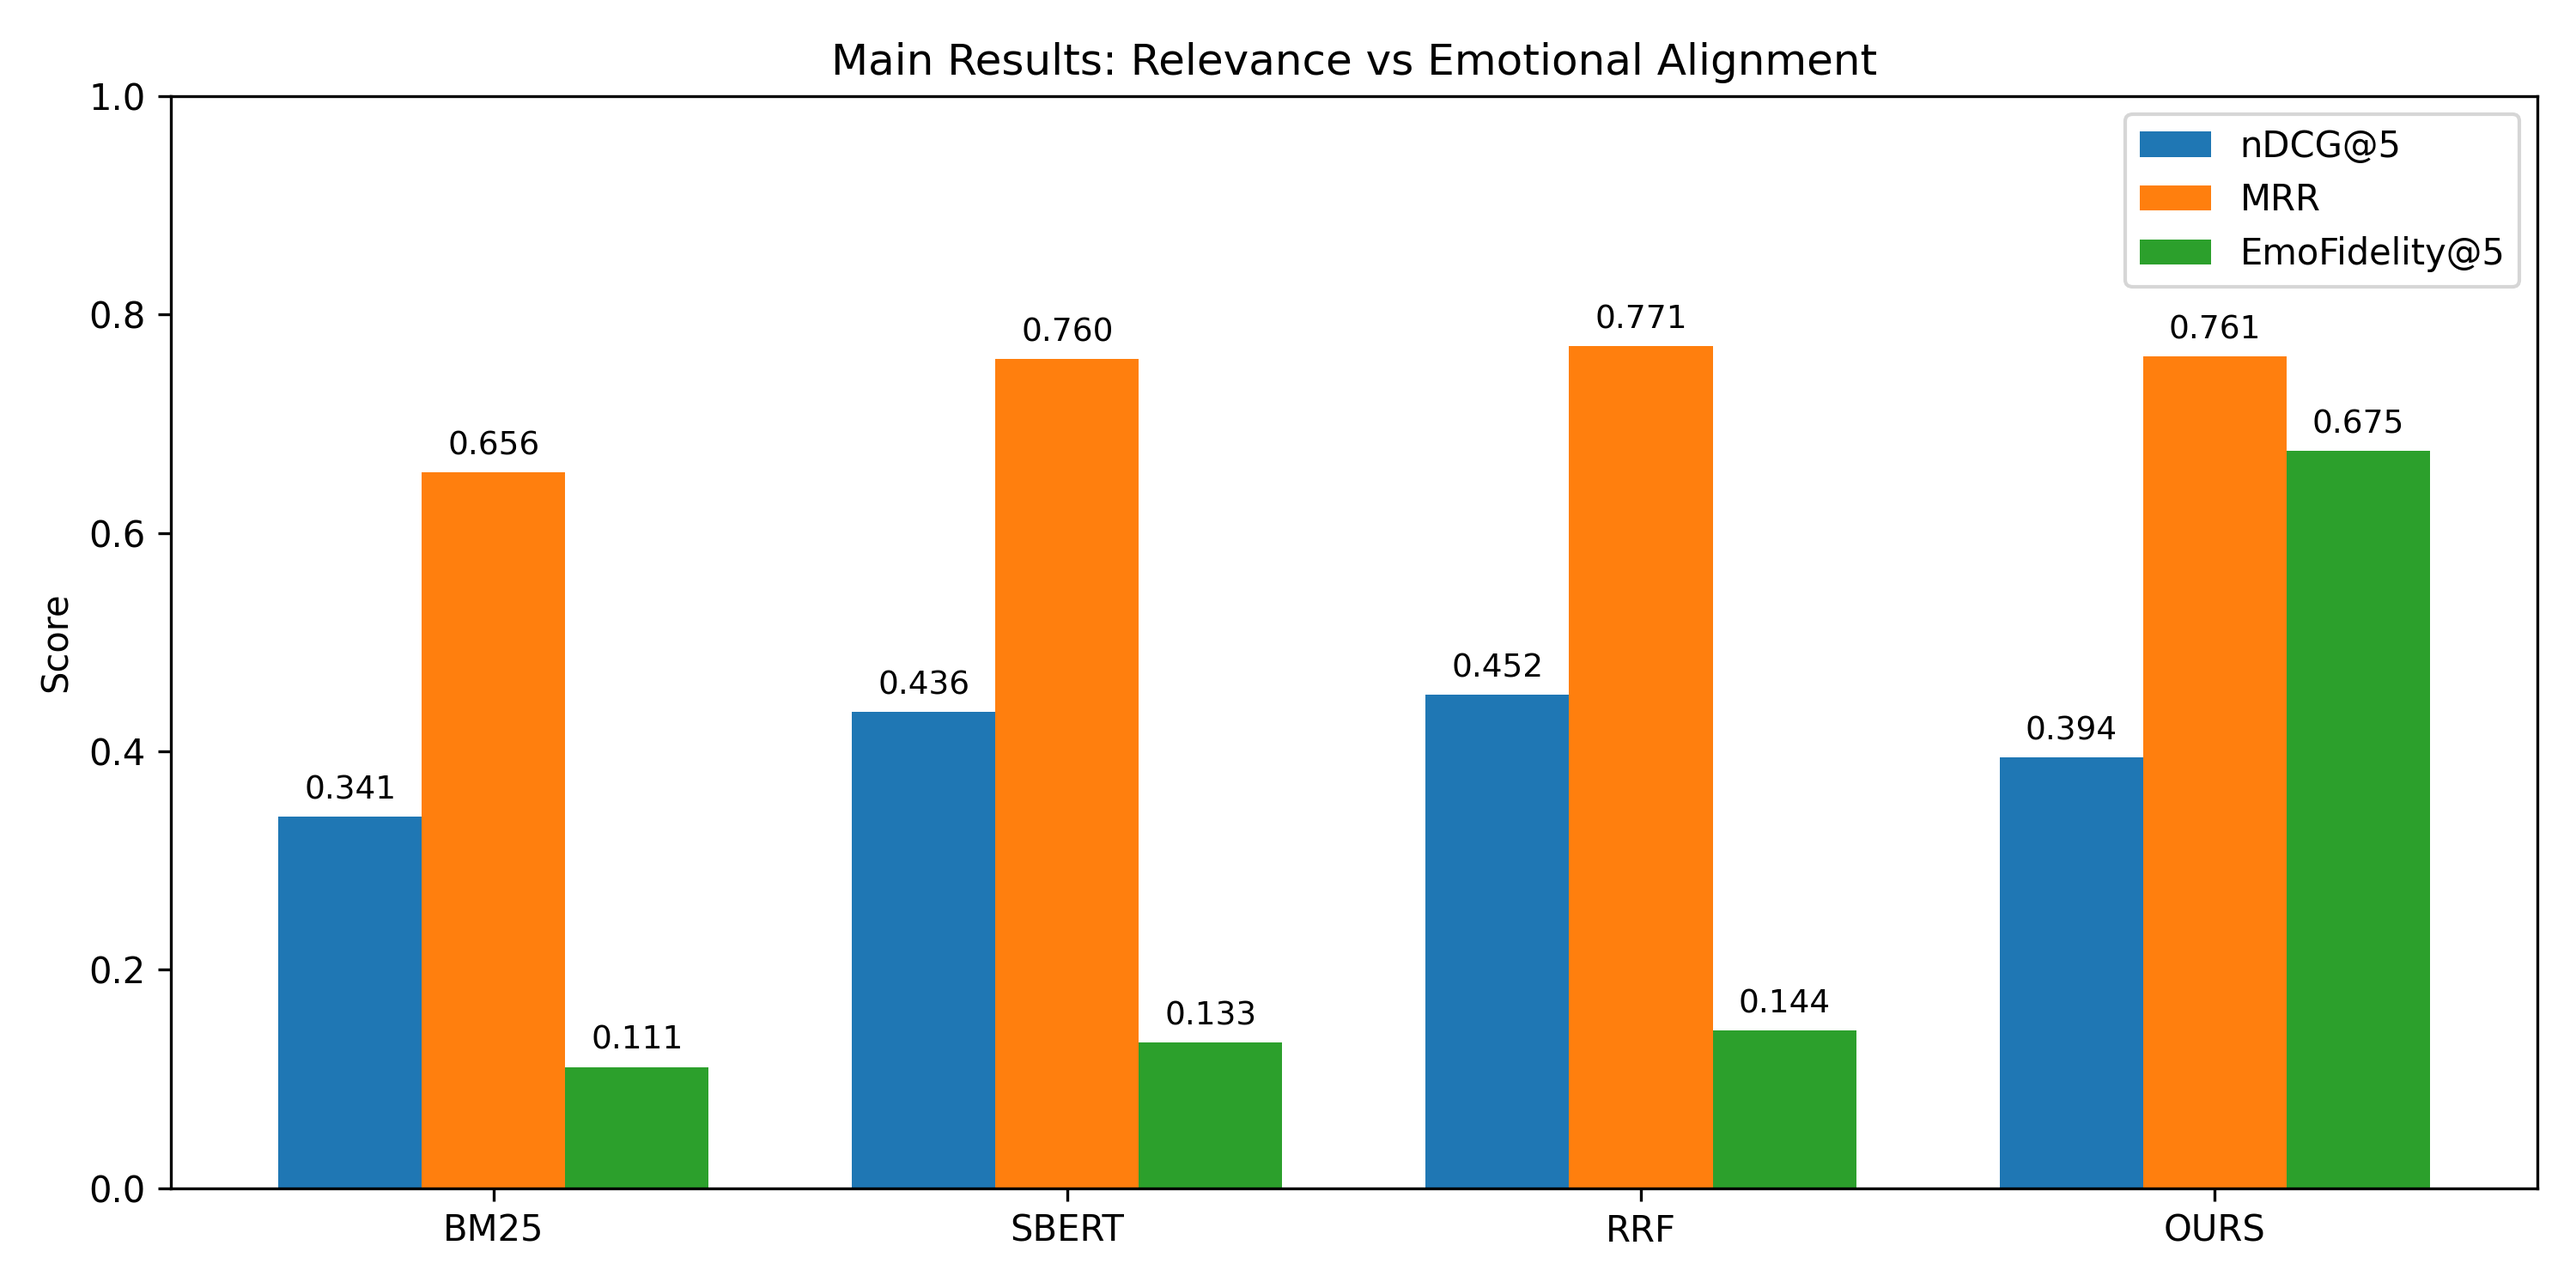
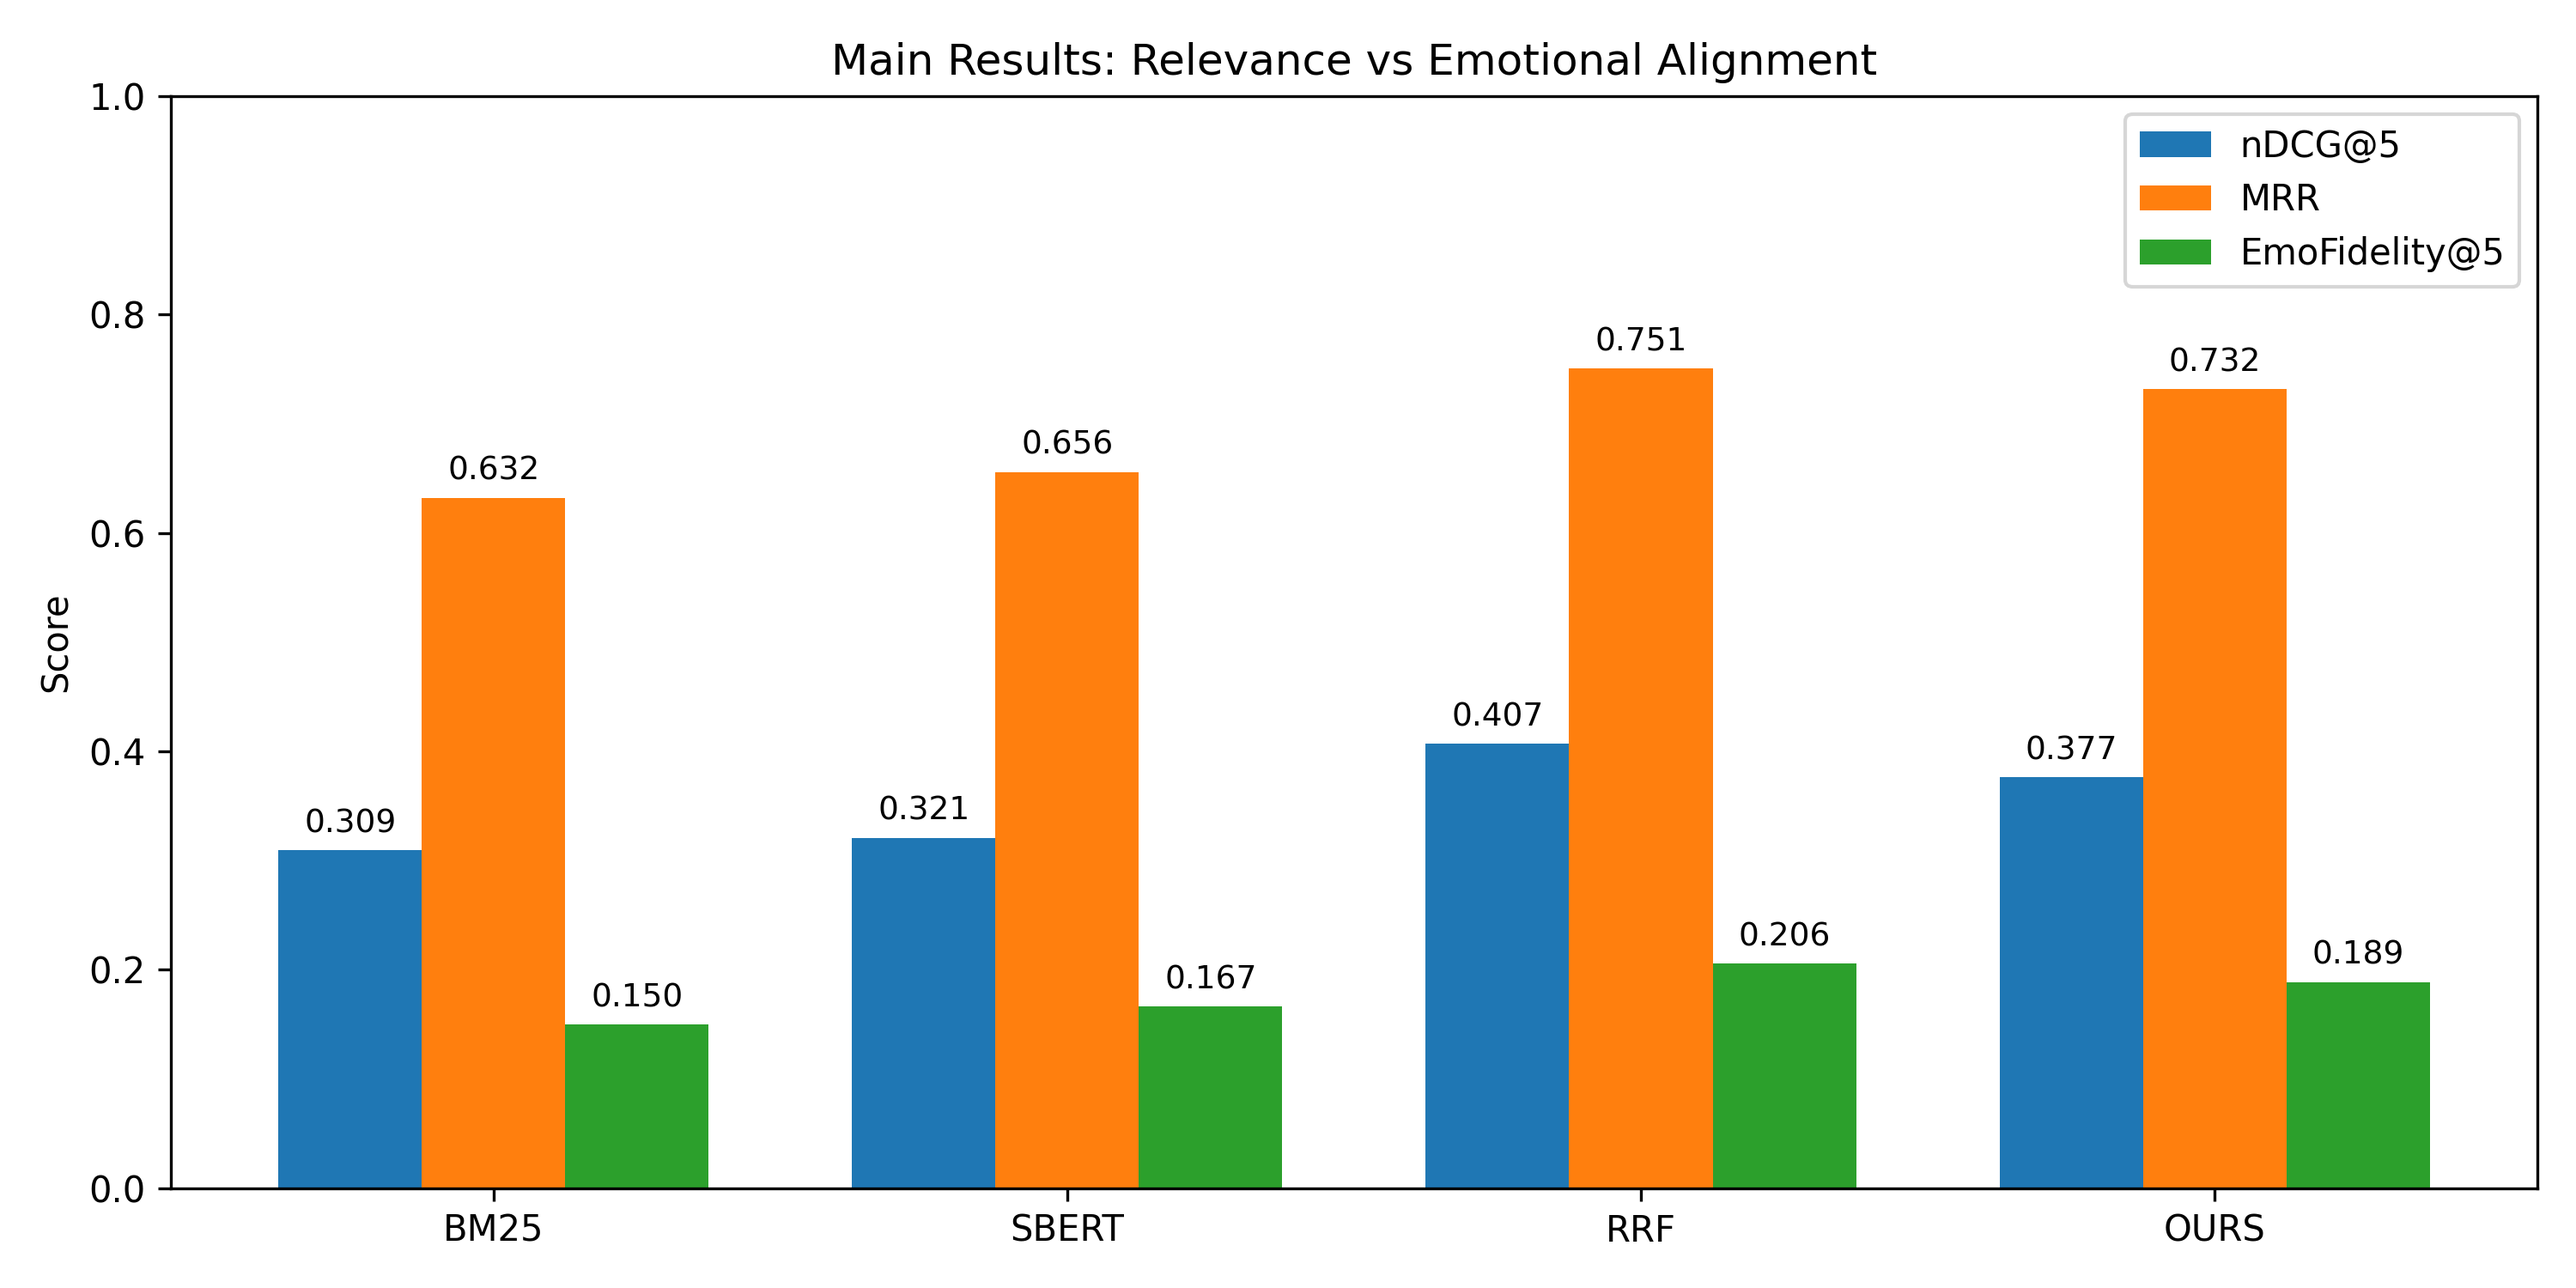
Remove PDF output from main results figure script with the aware summary selection changes
The script no longer saves or prints the path for the PDF version of the main results bar chart, focusing solely on PNG output. The PNG file has also been updated.

diff --git a/evaluation/make_main_results_figure.py b/evaluation/make_main_results_figure.py
@@ -8,7 +8,6 @@ EVAL_SUMMARY_PATH = os.path.join(RESULTS_DIR, "evaluation_summary.csv")
 EMO_SUMMARY_PATH = os.path.join(RESULTS_DIR, "emotional_fidelity_summary.csv")
 
 OUT_PNG = os.path.join(RESULTS_DIR, "main_results_bar_chart.png")
-OUT_PDF = os.path.join(RESULTS_DIR, "main_results_bar_chart.pdf")
 
 
 def normalize_method_name(m: str) -> str:
@@ -108,12 +107,10 @@ def main():
 
     plt.tight_layout()
     plt.savefig(OUT_PNG, dpi=300)
-    plt.savefig(OUT_PDF)
     plt.close()
 
     print("✅ Saved combined grouped bar chart:")
     print(f" - {OUT_PNG}")
-    print(f" - {OUT_PDF}")
     print("\nData used:")
     print(merged.to_string(index=False))
 
